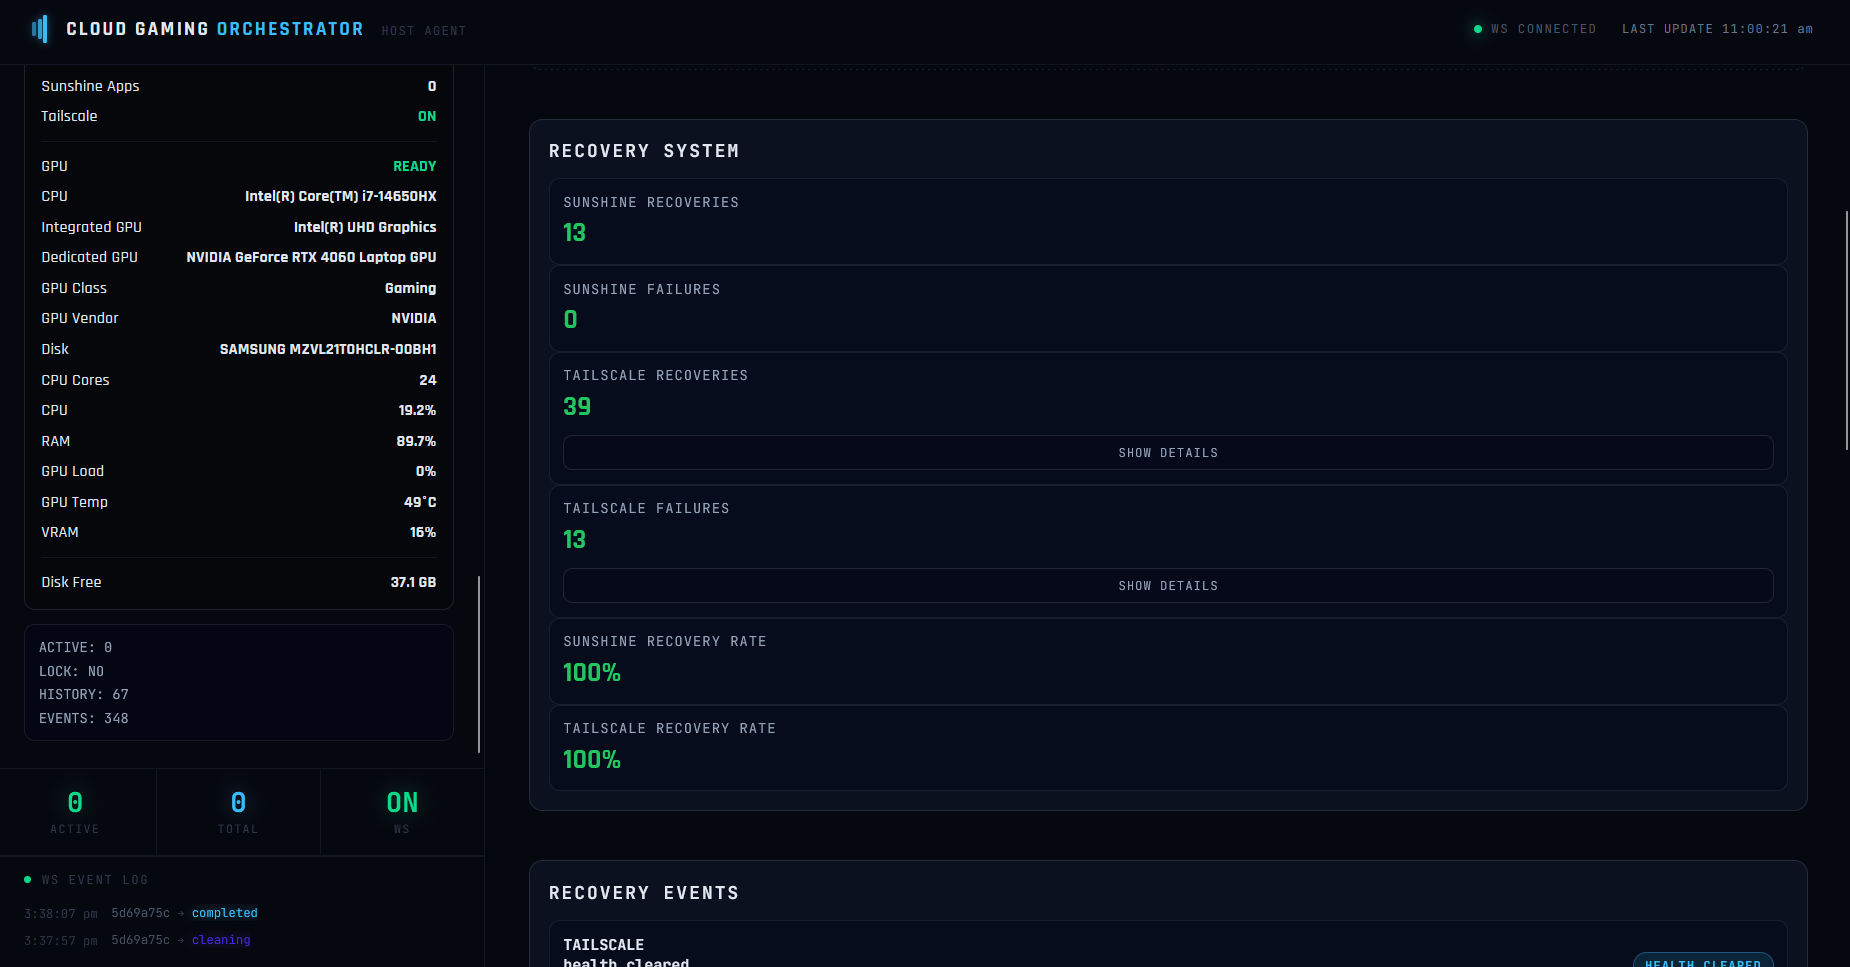
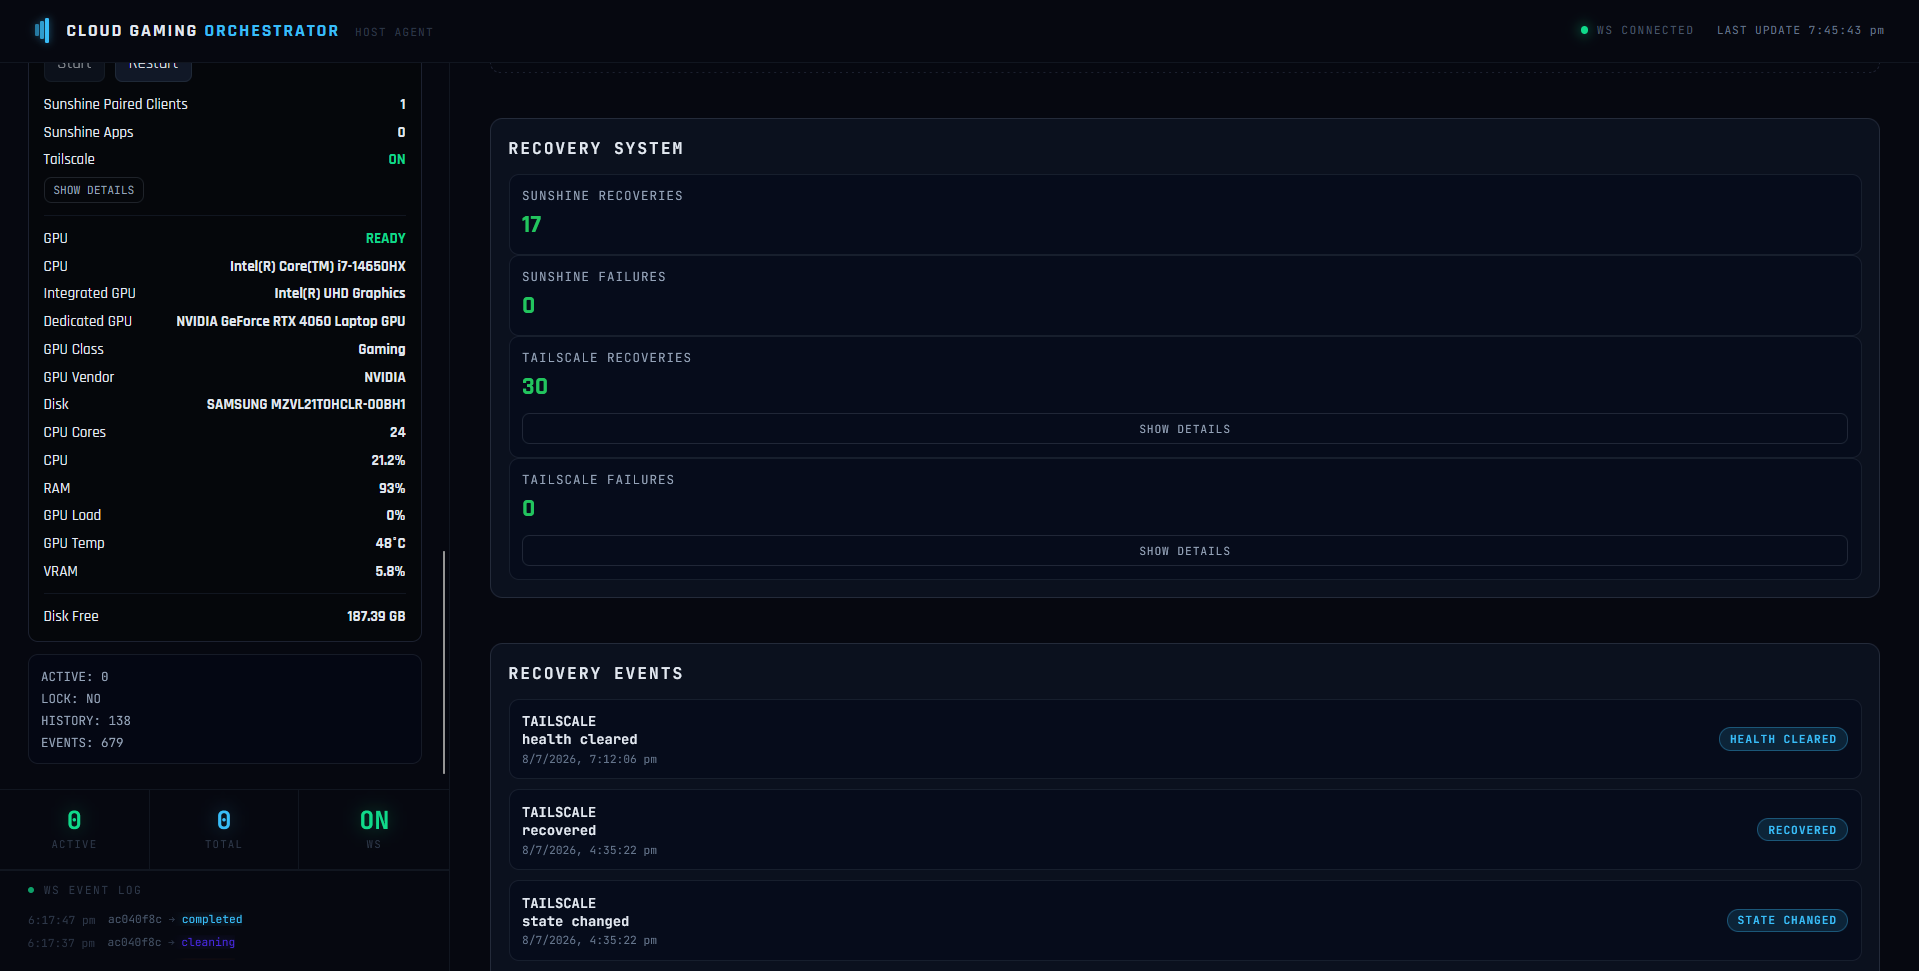
Updated Sunshine Client Information

diff --git a/frontend/src/components/HostStatusPanel.jsx b/frontend/src/components/HostStatusPanel.jsx
@@ -376,7 +376,7 @@ export function HostStatusPanel({
       </div>
 
       <div style={row}>
-        <span>Moonlight Clients</span>
+        <span>Sunshine Paired Clients</span>
         <b>
           {status.sunshine_client_count == null
             ? "N/A"

diff --git a/host-agent/api/services/sunshine_service.py b/host-agent/api/services/sunshine_service.py
@@ -72,7 +72,7 @@ def get_sunshine_clients():
 
     try:
         response = requests.get(
-            f"{api_url}/api/config",
+            f"{api_url}/api/clients/list",
             auth=HTTPBasicAuth(
                 username,
                 password,
@@ -92,7 +92,7 @@ def get_sunshine_clients():
 
         return {
             "reachable": bool(data.get("status")),
-            "clients": [],
+            "clients": data.get("named_certs", []),
             "error": "",
         }
 